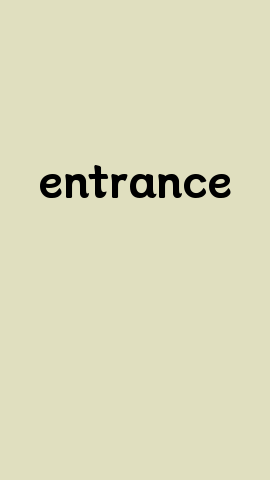
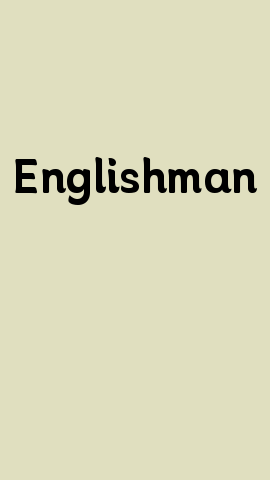
添加AI翻译；重新启动定时任务

Changed region(s): [[0.0593, 0.3125, 0.9481, 0.4375]]

diff --git a/main.py b/main.py
@@ -46,19 +46,23 @@ def generate_img(request: Request, word: str):
 @app.get("/workflow/everyday_word")
 async def workflow_everyday_word():
     " 生成CET4 随机单词和图片 "
-    # cet4_img = "static/cet4.png"
-    # cet4_word = random_word()
-    # print("cet4_word: ", cet4_word)
-    # cet4_info_text = get_material(text=cet4_word, image_name=cet4_img)
-    # feishu_client.send_img_feishu(filepath=cet4_img)
-    # feishu_client.send_msg_feishu(text=cet4_info_text)
+    cet4_img = "static/cet4.png"
+    cet4_word = random_word()
+    print("cet4_word: ", cet4_word)
+    get_img(text=cet4_word, image_name=cet4_img)
+    cet4_info_text = get_word_info(word=cet4_word)
+    feishu_client.send_img_feishu(filepath=cet4_img)
+    feishu_client.send_msg_feishu(text=cet4_info_text)
 
     " 生成CET6 随机单词和图片"
     cet6_img = "static/cet6.png"
     cet6_word = random_word(wordfile="CET6.txt")
-    cet6_info_text = get_material(text=cet6_word, image_name=cet6_img)
+    get_img(text=cet6_word, image_name=cet6_img)
+    cet6_info_text = get_word_info(word=cet6_word)
+    feishu_client.send_img_feishu(filepath=cet6_img)
+    feishu_client.send_msg_feishu(text=cet6_info_text)
 
-    return {"cet4_info_text": "cet4_info_text", "cet6_info_text":cet6_info_text}
+    return {"cet4_word":cet4_word, "cet4_info_text":cet4_info_text,"cet6_word":cet6_word, "cet6_info_text":cet6_info_text}
     
 @app.post("/feishu_callback")
 async def feishu_callback(reqest: Request):

diff --git a/Translate.py b/Translate.py
@@ -1,12 +1,20 @@
 # -*- coding: utf-8 -*-
-import json
-import sys
 import uuid
 import requests
 import hashlib
-import time
+import time, os
 
-import time
+from zhipuai import ZhipuAI
+
+ai_trans_prompt = lambda word: f"""
+将 {word} 翻译为中文，并生成一句话解释和音标
+
+---
+【中文释义】：
+【中文解释】：
+【音标】
+"""
+
 
 class YouDao:
     def __init__(self, app_key, app_secret):
@@ -51,5 +59,27 @@ class YouDao:
         if response.status_code == 200:
             return response.json()
 
+class ChatGLMTrans:
+    prompt_template = """
+将 {word} 翻译为中文，并生成一句话解释和音标
 
+---
+【中文释义】：
+【中文解释】：
+【音标】
+"""
+    def __init__(self) -> None:
+        self._api_key = os.getenv("ZHIPUAI_API_KEY")
+    
+    def chat(self, word) -> None:
+        client = ZhipuAI(api_key=self._api_key) # 填写您自己的APIKey
+        response = client.chat.completions.create(
+            model="glm-3-turbo",  # 填写需要调用的模型名称
+            messages=[
+                {"role": "user", "content": ai_trans_prompt(word)}
+            ]
+        )
+        
+        print("zhipu glm-3-turbo查询结果：",response.choices[0].message.content)
+        return response.choices[0].message.content
 

diff --git a/utools.py b/utools.py
@@ -1,5 +1,5 @@
 import random, os
-from Translate import YouDao
+from Translate import ChatGLMTrans
 from CusImage import CusImage
 
 
@@ -14,15 +14,9 @@ def random_word(wordfile: str="CET4.txt"):
     return word
 
 
-def get_word_info(text: str):
-    yd = YouDao(app_key=os.getenv("YOUDAO_APP_KEY"), app_secret=os.getenv("YOUDAO_APP_SECRET"))
-    res = yd.connect(q=text)
-    print("翻译结果：", res)
-    if not res["isWord"]:
-        return None
-    explains = "\n".join(res["basic"]["explains"])
-
-    info_text = f"{text}\n中文翻译：{res['translation']}\n解释：{explains}\n发音：{res['basic']['phonetic']}\n美式发音：{res['basic']['us-phonetic']}\n"
+def get_word_info(word: str):
+    ai_trans = ChatGLMTrans()
+    info_text = ai_trans.chat(word=word)
     return info_text
 
 def get_img(text: str, image_name:str):
